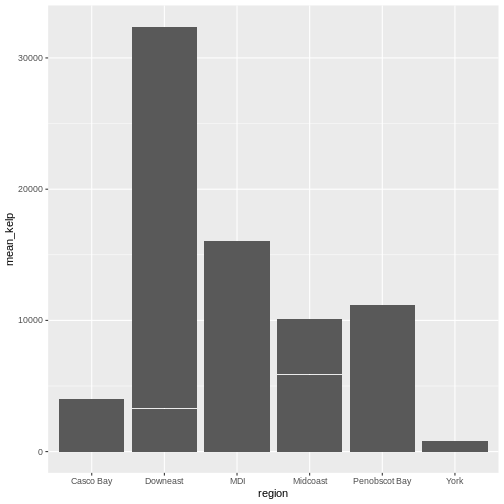
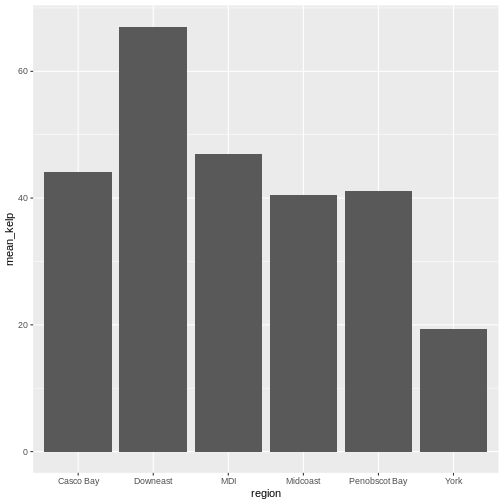
markdown source builds
Auto-generated via {sandpaper}
Source  : 1f62ce5a0149e75a43f77ca597ba7317cf20254c
Branch  : main
Author  : jebyrnes <jarrett.byrnes@umb.edu>
Time    : 2024-01-11 14:41:57 +0000
Message : fix mutate -> summarize for plotting of kelp

diff --git a/07-plot-ggplot2.md b/07-plot-ggplot2.md
@@ -146,13 +146,14 @@ The histogram is a useful tool for visualizing the
 distribution of a single continuous variable. What if
 we want to compare the kelp cover of the regions in
 our dataset? We could use a bar (or column) plot.
+
 First, let's create a dataset with the mean % kelp for each region.
 
 
 ```r
 region_mean_kelp <- dmr |>
   group_by(region) |>
-  mutate(mean_kelp = mean(kelp))
+  summarize(mean_kelp = mean(kelp))
 ```
 
 This time, we will use the `geom_col()` function as our geometry.
